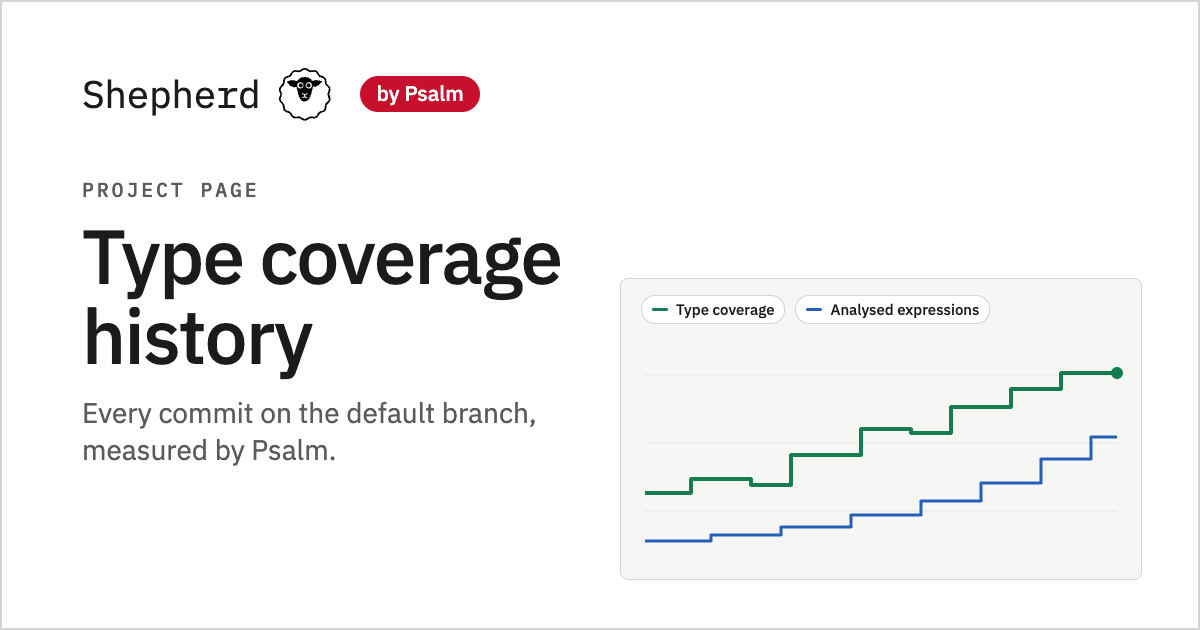
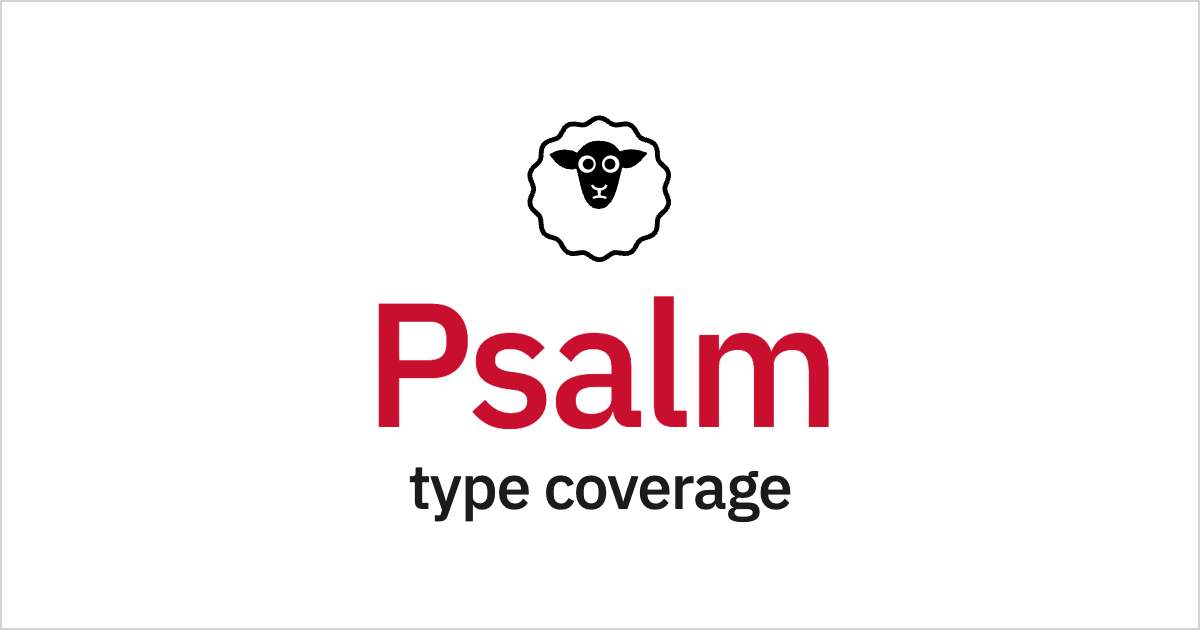
style(seo): simplify the project share card
Slack shows og:image as a small centre-cropped thumbnail, where the
chart card was unreadable. The card is now the sheep logo above a
large red "Psalm" and "type coverage", centred so it survives a
square crop.

diff --git a/views/partials/head.php b/views/partials/head.php
@@ -26,7 +26,7 @@ return static function (
 ) : void {
     $cards = [
         'home' => ['/assets/img/og.png', 'Shepherd: Watch your PHP get stricter. Type coverage for PHP, by Psalm.'],
-        'project' => ['/assets/img/og-project.png', 'Shepherd: type coverage history of a PHP project, by Psalm.'],
+        'project' => ['/assets/img/og-project.png', 'The Shepherd sheep logo above the words Psalm type coverage.'],
     ];
     [$card_image, $card_alt] = $cards[$share_card];
     // Appends ?v=<mtime> so a changed asset is never served from a stale browser or CDN cache.
